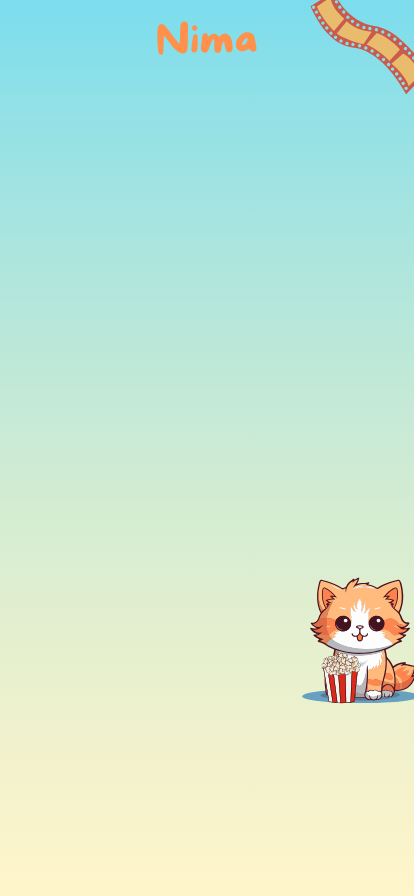
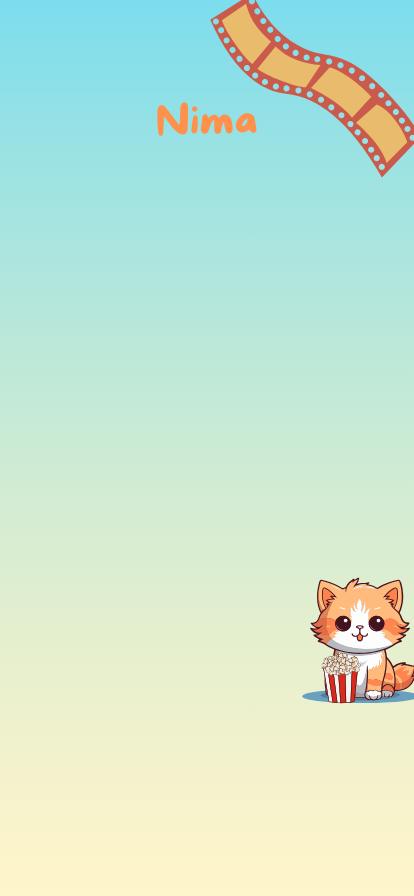
update chatbox

Changed region(s): [[0.3768, 0.0, 1.0, 0.2188], [0.3768, 0.0938, 0.6377, 0.1562]]

diff --git a/app/(tabs)/chat.tsx b/app/(tabs)/chat.tsx
@@ -9,8 +9,8 @@ import {
   Text,
   ActivityIndicator,
   Alert,
-  ImageBackground,  // <-- Import ImageBackground
-  Dimensions,        // <-- Import Dimensions to get screen size
+  ImageBackground,
+  Dimensions,
 } from "react-native";
 import { KeyboardAwareScrollView } from "react-native-keyboard-aware-scroll-view";
 import { useEffect, useRef, useState } from "react";
@@ -31,7 +31,7 @@ export default function Chat() {
   const translateYRef = useRef(new Animated.Value(0)).current;
   const tabBarHeight = useBottomTabBarHeight();
 
-  const { width, height } = Dimensions.get("window"); // Get screen width and height
+  const { width, height } = Dimensions.get("window");
 
   useEffect(() => {
     const keyboardWillShowListener = Keyboard.addListener(
@@ -95,19 +95,19 @@ export default function Chat() {
         body: JSON.stringify({
           input: {
             question: messageValue,
-            chat_history: []
+            chat_history: [],
           },
           config: {
             metadata: {
-              conversation_id: 'conversationId',
+              conversation_id: "conversationId",
             },
           },
         }),
       });
       if (response.ok) {
         const jsonResponse = await response.json();
-        const responseData = jsonResponse; 
-        
+        const responseData = jsonResponse;
+
         console.log(responseData);
         const newAIMessage = {
           content: responseData.trimEnd(),
@@ -118,7 +118,7 @@ export default function Chat() {
           newAIMessage,
         ]);
       } else {
-        console.error('Error:', response.statusText);
+        console.error("Error:", response.statusText);
       }
     } catch (error) {
       setSendingChat(false);
@@ -132,109 +132,120 @@ export default function Chat() {
   };
 
   return (
-    <ImageBackground
-      source={require('/Users/nina/nima-frontend/assets/Nima1.png')}  // <-- Path to your image
-      style={{
-        width: width,     // Full width of the screen
-        height: height,   // Full height of the screen
-      }}
-      resizeMode="contain"  // <-- "cover" ensures the image covers the entire view
-    >
-      <KeyboardAwareScrollView
-        alwaysBounceVertical={false}
-        className="flex-1 w-full"
-      >
-        <View className="flex-1 mt-3 mx-3">
-          {conversation && conversation.length > 0 && (
-            <View className="my-4">
-              {conversation.map((msg, index) =>
-                msg.role === "AI" ? (
-                  <View
-                    className="flex flex-row justify-start mb-2 items-center"
-                    key={index}
-                  >
-                    <FontAwesome size={28} name="gear" color="blue" />
-                    <View className="p-2 bg-dark-blue mx-2 rounded-lg w-4/5 bg-gray-500">
-                      <Text
-                        style={{
-                          fontSize: 16,
-                          lineHeight: 20,
-                        }}
-                        className="text-white"
-                      >
-                        {msg.content}
-                      </Text>
-                    </View>
-                  </View>
-                ) : (
-                  <View
-                    className="flex flex-row justify-end mb-2 items-center"
-                    key={index}
-                  >
-                    <View
-                      className="p-2 bg-dark-red mr-2 rounded-lg bg-red-500"
-                      style={{ maxWidth: "85%" }}
-                    >
-                      <Text
-                        style={{
-                          fontSize: 16,
-                          lineHeight: 20,
-                        }}
-                        className="text-white"
-                      >
-                        {msg.content}
-                      </Text>
-                    </View>
-                    <Avatar
-                      size={34}
-                      rounded
-                      title="U"
-                      containerStyle={{
-                        backgroundColor: "red",
-                      }}
-                    />
-                  </View>
-                )
-              )}
-            </View>
-          )}
-        </View>
-      </KeyboardAwareScrollView>
-      <Animated.View
+    <View style={{ flex: 1 }}>
+      {/* Full-screen Image Background */}
+      <ImageBackground
+        source={require('/Users/nina/nima-frontend/assets/Nima1.png')}
         style={{
-          transform: [
-            {
-              translateY: Platform.OS === "ios" ? translateYRef : 0,
-            },
-          ],
+          flex: 1, // Allow it to take up full screen
+          justifyContent: "flex-end", // Ensure content appears at the bottom
         }}
-        className="px-2 bg-white flex-row py-2 items-center"
+        resizeMode="cover" // Cover the entire background
       >
-        <TextInput
-          className="flex-1 border-2 rounded-xl border-gray-600 mr-4 px-3 max-h-20"
-          multiline
-          style={{ height: textInputHeight }}
-          value={chatText}
-          onChangeText={(text) => setChatText(text)}
-          placeholder="Ask a question here"
-          onContentSizeChange={handleContentSizeChange}
-        />
-        <Pressable
-          style={{
-            backgroundColor:
-              chatText.trim() === "" || sendingChat ? "gray" : "blue",
-          }}
-          className="items-center justify-center w-12 rounded-full p-2"
-          onPress={handleSubmit}
-          disabled={chatText.trim() === "" || sendingChat}
+        {/* Chat Messages */}
+        <KeyboardAwareScrollView
+          alwaysBounceVertical={false}
+          style={{ flex: 1, marginTop: 50 }}
+          contentContainerStyle={{ flexGrow: 1, justifyContent: "flex-end" }}
         >
-          {sendingChat ? (
-            <ActivityIndicator size="small" color="white" />
-          ) : (
-            <Feather name="send" size={20} color={"white"} />
-          )}
-        </Pressable>
-      </Animated.View>
-    </ImageBackground>
+          <View style={{ paddingHorizontal: 10 }}>
+            {conversation && conversation.length > 0 && (
+              <View className="my-4">
+                {conversation.map((msg, index) =>
+                  msg.role === "AI" ? (
+                    <View
+                      className="flex flex-row justify-start mb-2 items-center"
+                      key={index}
+                    >
+                      <FontAwesome size={28} name="gear" color="blue" />
+                      <View className="p-2 bg-dark-blue mx-2 rounded-lg w-4/5 bg-gray-500">
+                        <Text
+                          style={{
+                            fontSize: 16,
+                            lineHeight: 20,
+                          }}
+                          className="text-white"
+                        >
+                          {msg.content}
+                        </Text>
+                      </View>
+                    </View>
+                  ) : (
+                    <View
+                      className="flex flex-row justify-end mb-2 items-center"
+                      key={index}
+                    >
+                      <View
+                        className="p-2 bg-dark-red mr-2 rounded-lg bg-red-500"
+                        style={{ maxWidth: "85%" }}
+                      >
+                        <Text
+                          style={{
+                            fontSize: 16,
+                            lineHeight: 20,
+                          }}
+                          className="text-white"
+                        >
+                          {msg.content}
+                        </Text>
+                      </View>
+                      <Avatar
+                        size={34}
+                        rounded
+                        title="U"
+                        containerStyle={{
+                          backgroundColor: "red",
+                        }}
+                      />
+                    </View>
+                  )
+                )}
+              </View>
+            )}
+          </View>
+        </KeyboardAwareScrollView>
+
+        {/* Chat Input */}
+        <Animated.View
+          style={{
+            transform: [
+              {
+                translateY: Platform.OS === "ios" ? translateYRef : 0,
+              },
+            ],
+            backgroundColor: "white",
+            paddingHorizontal: 10,
+            paddingVertical: 5,
+          }}
+        >
+          <View className="flex-row items-center">
+            <TextInput
+              className="flex-1 border-2 rounded-xl border-gray-600 mr-4 px-3 max-h-20"
+              multiline
+              style={{ height: textInputHeight }}
+              value={chatText}
+              onChangeText={(text) => setChatText(text)}
+              placeholder="Ask a question here"
+              onContentSizeChange={handleContentSizeChange}
+            />
+            <Pressable
+              style={{
+                backgroundColor:
+                  chatText.trim() === "" || sendingChat ? "gray" : "blue",
+              }}
+              className="items-center justify-center w-12 rounded-full p-2"
+              onPress={handleSubmit}
+              disabled={chatText.trim() === "" || sendingChat}
+            >
+              {sendingChat ? (
+                <ActivityIndicator size="small" color="white" />
+              ) : (
+                <Feather name="send" size={20} color={"white"} />
+              )}
+            </Pressable>
+          </View>
+        </Animated.View>
+      </ImageBackground>
+    </View>
   );
 }
